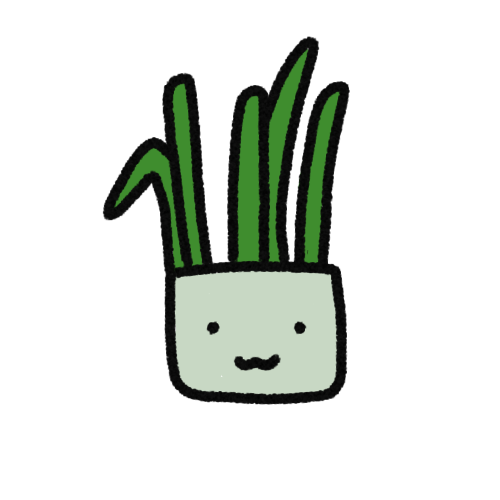
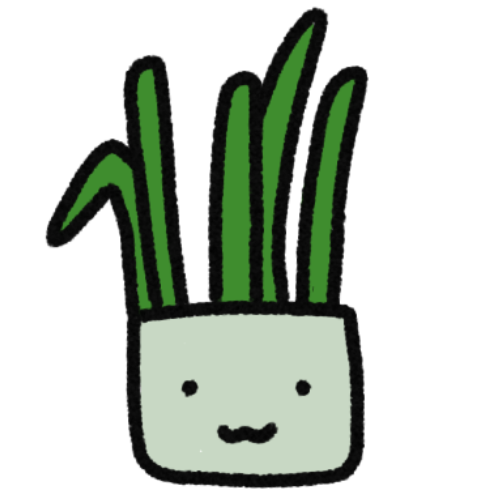
added decoration images

diff --git a/tamagotchi-gerald-app/src/mainScreen.jsx b/tamagotchi-gerald-app/src/mainScreen.jsx
@@ -8,13 +8,12 @@ import { CameraModal } from './CameraModal';
 
 const DECORATION_TYPES = [
   { id: 1, name: 'Pink Flower', defaultEmoji: '🌸', image: '/images/flower-pink.png' },
-  { id: 2, name: 'Sunflower', defaultEmoji: '🌻', image: '/images/flower-sun.png' },
+  { id: 2, name: 'Balloon', defaultEmoji: '🎈', image: '/images/balloon.png' },
   { id: 3, name: 'Mushroom', defaultEmoji: '🍄', image: '/images/mushroom.png' },
   { id: 4, name: 'Butterfly', defaultEmoji: '🦋', image: '/images/butterfly.png' },
-  { id: 5, name: 'Rainbow', defaultEmoji: '🌈', image: '/images/rainbow.png' },
-  { id: 6, name: 'Star', defaultEmoji: '⭐', image: '/images/star.png' },
-  { id: 7, name: 'Moon', defaultEmoji: '🌙', image: '/images/moon.png' },
-  { id: 8, name: 'Bee', defaultEmoji: '🐝', image: '/images/bee.png' },
+  { id: 5, name: 'Star', defaultEmoji: '⭐', image: '/images/star.png' },
+  { id: 6, name: 'Moon', defaultEmoji: '🌙', image: '/images/moon.png' },
+  { id: 7, name: 'Bee', defaultEmoji: '🐝', image: '/images/bee.png' },
 ];
 
 const GACHA_COST = 50;
@@ -137,7 +136,6 @@ export default function GeraldTamagotchi() {
       const newDeco = {
         ...randomDeco,
         uniqueId: Date.now(),
-        image: null,
       };
       
       setInventory(prev => [...prev, newDeco]);
@@ -198,7 +196,7 @@ export default function GeraldTamagotchi() {
     let y = touch.clientY - rect.top - 30;
     
     // Constrain within boundaries (leaving some margin for item size)
-    const itemSize = draggedItem.item.uniqueId === 'gerald' ? 64 : 48; // 4rem = 64px, 3rem = 48px
+    const itemSize = draggedItem.item.uniqueId === 'gerald' ? 48 : 48; // 3rem = 48px
     const maxX = rect.width - itemSize;
     const maxY = rect.height - itemSize;
     
@@ -228,7 +226,7 @@ export default function GeraldTamagotchi() {
     let y = touch.clientY - rect.top - 30;
     
     // Constrain within boundaries
-    const itemSize = draggedItem.item.uniqueId === 'gerald' ? 64 : 48;
+    const itemSize = draggedItem.item.uniqueId === 'gerald' ? 48 : 48; // 3rem = 48px
     const maxX = rect.width - itemSize;
     const maxY = rect.height - itemSize;
     

diff --git a/tamagotchi-gerald-app/src/DraggableItem.tsx b/tamagotchi-gerald-app/src/DraggableItem.tsx
@@ -1,14 +1,17 @@
+import React from "react";
 import { styles } from "./styles";
 import { X } from "lucide-react"
 
 export const DraggableItem = ({ item, position, onDragStart, onTouchStart, onRemove, isGerald }: {
-  item: { image?: string; name: string };
+  item: { image?: string; name: string; defaultEmoji?: string };
   position: { x: number; y: number };
   onDragStart: (e: React.DragEvent) => void;
   onTouchStart?: (e: React.TouchEvent) => void;
   onRemove?: () => void;
   isGerald: boolean;
 }) => {
+  const [imageError, setImageError] = React.useState(false);
+  
   return (
     <div
       draggable
@@ -62,20 +65,21 @@ export const DraggableItem = ({ item, position, onDragStart, onTouchStart, onRem
           if (removeBtn) removeBtn.style.opacity = '0';
         }}
       >
-        {item.image ? (
+        {item.image && !imageError ? (
           <img
             src={item.image}
             alt={item.name}
             style={{
-              width: isGerald ? '4rem' : '3rem',
-              height: isGerald ? '4rem' : '3rem',
+              width: isGerald ? '3rem' : '3rem',
+              height: isGerald ? '3rem' : '3rem',
               objectFit: 'cover',
               borderRadius: '0.5rem',
             }}
+            onError={() => setImageError(true)}
           />
         ) : (
-          <div style={{ fontSize: isGerald ? '4rem' : '3rem' }}>
-            {isGerald ? '🌱' : '❓'}
+          <div style={{ fontSize: isGerald ? '3rem' : '3rem' }}>
+            {isGerald ? '🌱' : (item.defaultEmoji || '❓')}
           </div>
         )}
       </div>
